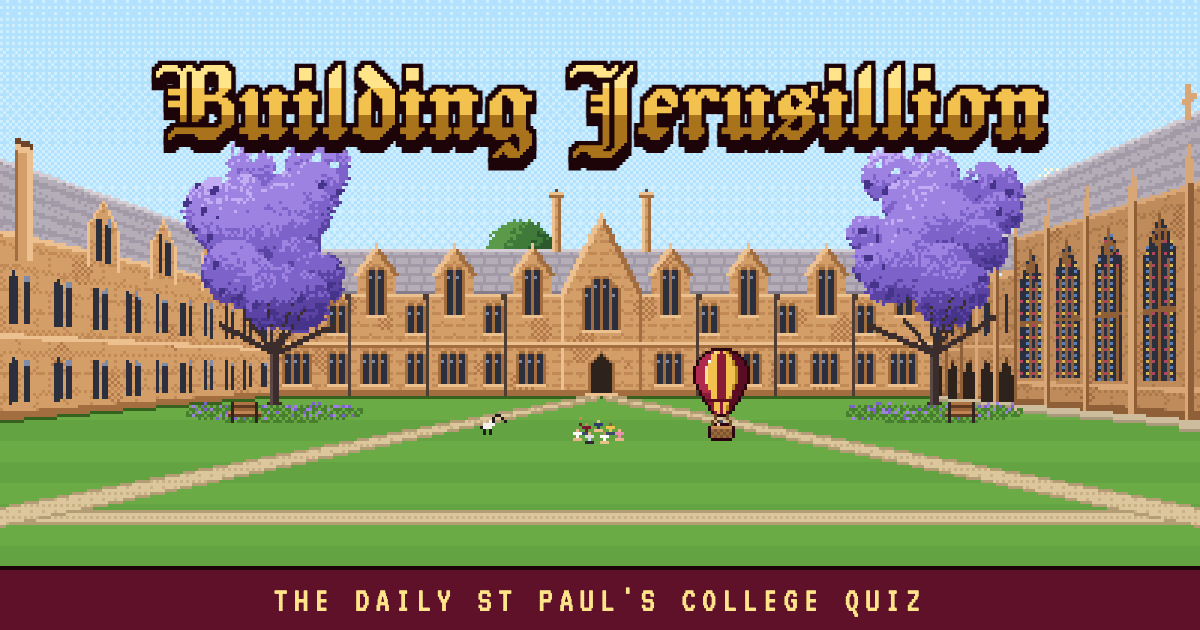
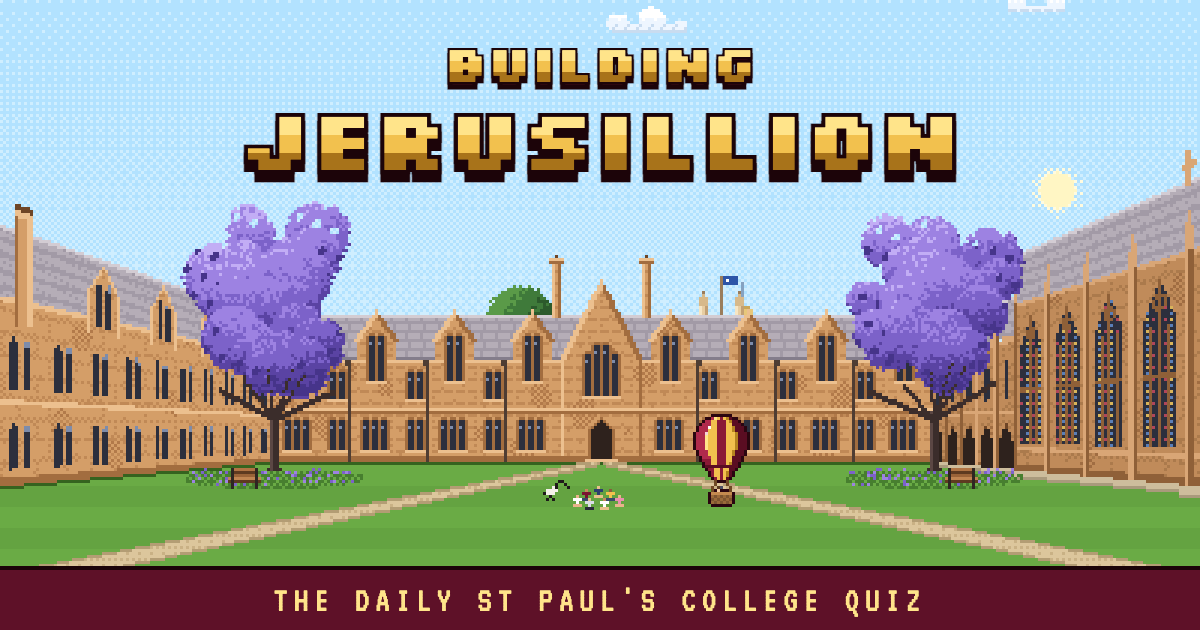
Add Day 1, switch the title to Silkscreen, and shorten the timer to 20s
Day 1 (31 October) replaces the sample day. Answers are sorted so each
tier up has fewer answers than the one below, with a few short forms
and nicknames added. The title now uses Silkscreen Bold for
legibility, and the link preview image matches. Each prompt now gets
20 seconds.

diff --git a/index.html b/index.html
@@ -9,7 +9,7 @@
 
   <meta property="og:type" content="website">
   <meta property="og:title" content="Building Jerusillion — today's prompts are up">
-  <meta property="og:description" content="Five prompts. Thirty seconds each. The rarer your answer, the higher your balloon climbs.">
+  <meta property="og:description" content="Five prompts. Twenty seconds each. The rarer your answer, the higher your balloon climbs.">
   <meta property="og:image" content="https://lockiewalter.github.io/St-Krillion/og.png">
   <meta property="og:url" content="https://lockiewalter.github.io/St-Krillion/">
   <meta name="twitter:card" content="summary_large_image">
@@ -19,7 +19,7 @@
 
   <link rel="preconnect" href="https://fonts.googleapis.com">
   <link rel="preconnect" href="https://fonts.gstatic.com" crossorigin>
-  <link href="https://fonts.googleapis.com/css2?family=Jacquard+24&family=VT323&display=swap" rel="stylesheet">
+  <link href="https://fonts.googleapis.com/css2?family=Silkscreen:wght@700&family=VT323&display=swap" rel="stylesheet">
   <link rel="stylesheet" href="styles.css">
 </head>
 <body>

diff --git a/styles.css b/styles.css
@@ -1,5 +1,5 @@
 /* Building Jerusillion — the pixel world fills the screen and the words float on it.
-   One thin pixel font (VT323) for reading, a pixel blackletter (Jacquard 24) for the name. */
+   One thin pixel font (VT323) for reading, a wide bold pixel face (Silkscreen) for the name. */
 
 :root {
   --night: #1c0409;
@@ -19,7 +19,7 @@
   --glass-dk: rgba(28, 4, 9, .8);
   --rule: rgba(255, 228, 138, .28);
 
-  --display: "Jacquard 24", "VT323", serif;
+  --display: "Silkscreen", "VT323", sans-serif;
   --mono: "VT323", ui-monospace, monospace;
 
   --p: 3px; /* one UI "pixel" */
@@ -117,8 +117,9 @@ p { margin: 0; }
   flex-direction: column;
   align-items: center;
   font-family: var(--display);
-  font-size: clamp(60px, 19vw, 108px);
-  line-height: .78;
+  font-size: clamp(32px, 10vw, 60px);
+  font-weight: 700;
+  line-height: 1;
   text-decoration: none;
   color: var(--gold);
   filter:

diff --git a/app.js b/app.js
@@ -10,7 +10,7 @@ const CONFIG = {
   name: "Building Jerusillion",
   tagline: "The rarer your answer, the higher you climb.",
   timeZone: "Australia/Sydney", // the puzzle rolls over at midnight here
-  secondsPerQuestion: 30,
+  secondsPerQuestion: 20,
   puzzleFile: "puzzles.txt",
 };
 

diff --git a/README.md b/README.md
@@ -1,6 +1,6 @@
 # Building Jerusillion
 
-The daily St Paul's College quiz. Each day brings a handful of prompts like *"Name a cocktail"*, with 30 seconds for each. Any right answer scores, but obvious answers barely count. The rarer your answer, the higher your maroon and gold balloon climbs:
+The daily St Paul's College quiz. Each day brings a handful of prompts like *"Name a cocktail"*, with 20 seconds for each. Any right answer scores, but obvious answers barely count. The rarer your answer, the higher your maroon and gold balloon climbs:
 
 | Tier | Climb |
 | --- | --- |
@@ -69,4 +69,4 @@ To change the name, the timer length or the time zone, edit `CONFIG` at the top 
 ## Good to know
 
 - Scores are kept in each player's browser, so there's no sign-up, but there's also no shared leaderboard. The group chat is the leaderboard.
-- `puzzles.txt` is public. Anyone determined enough can read the answers. The 30-second clock keeps most people honest.
+- `puzzles.txt` is public. Anyone determined enough can read the answers. The 20-second clock keeps most people honest.
